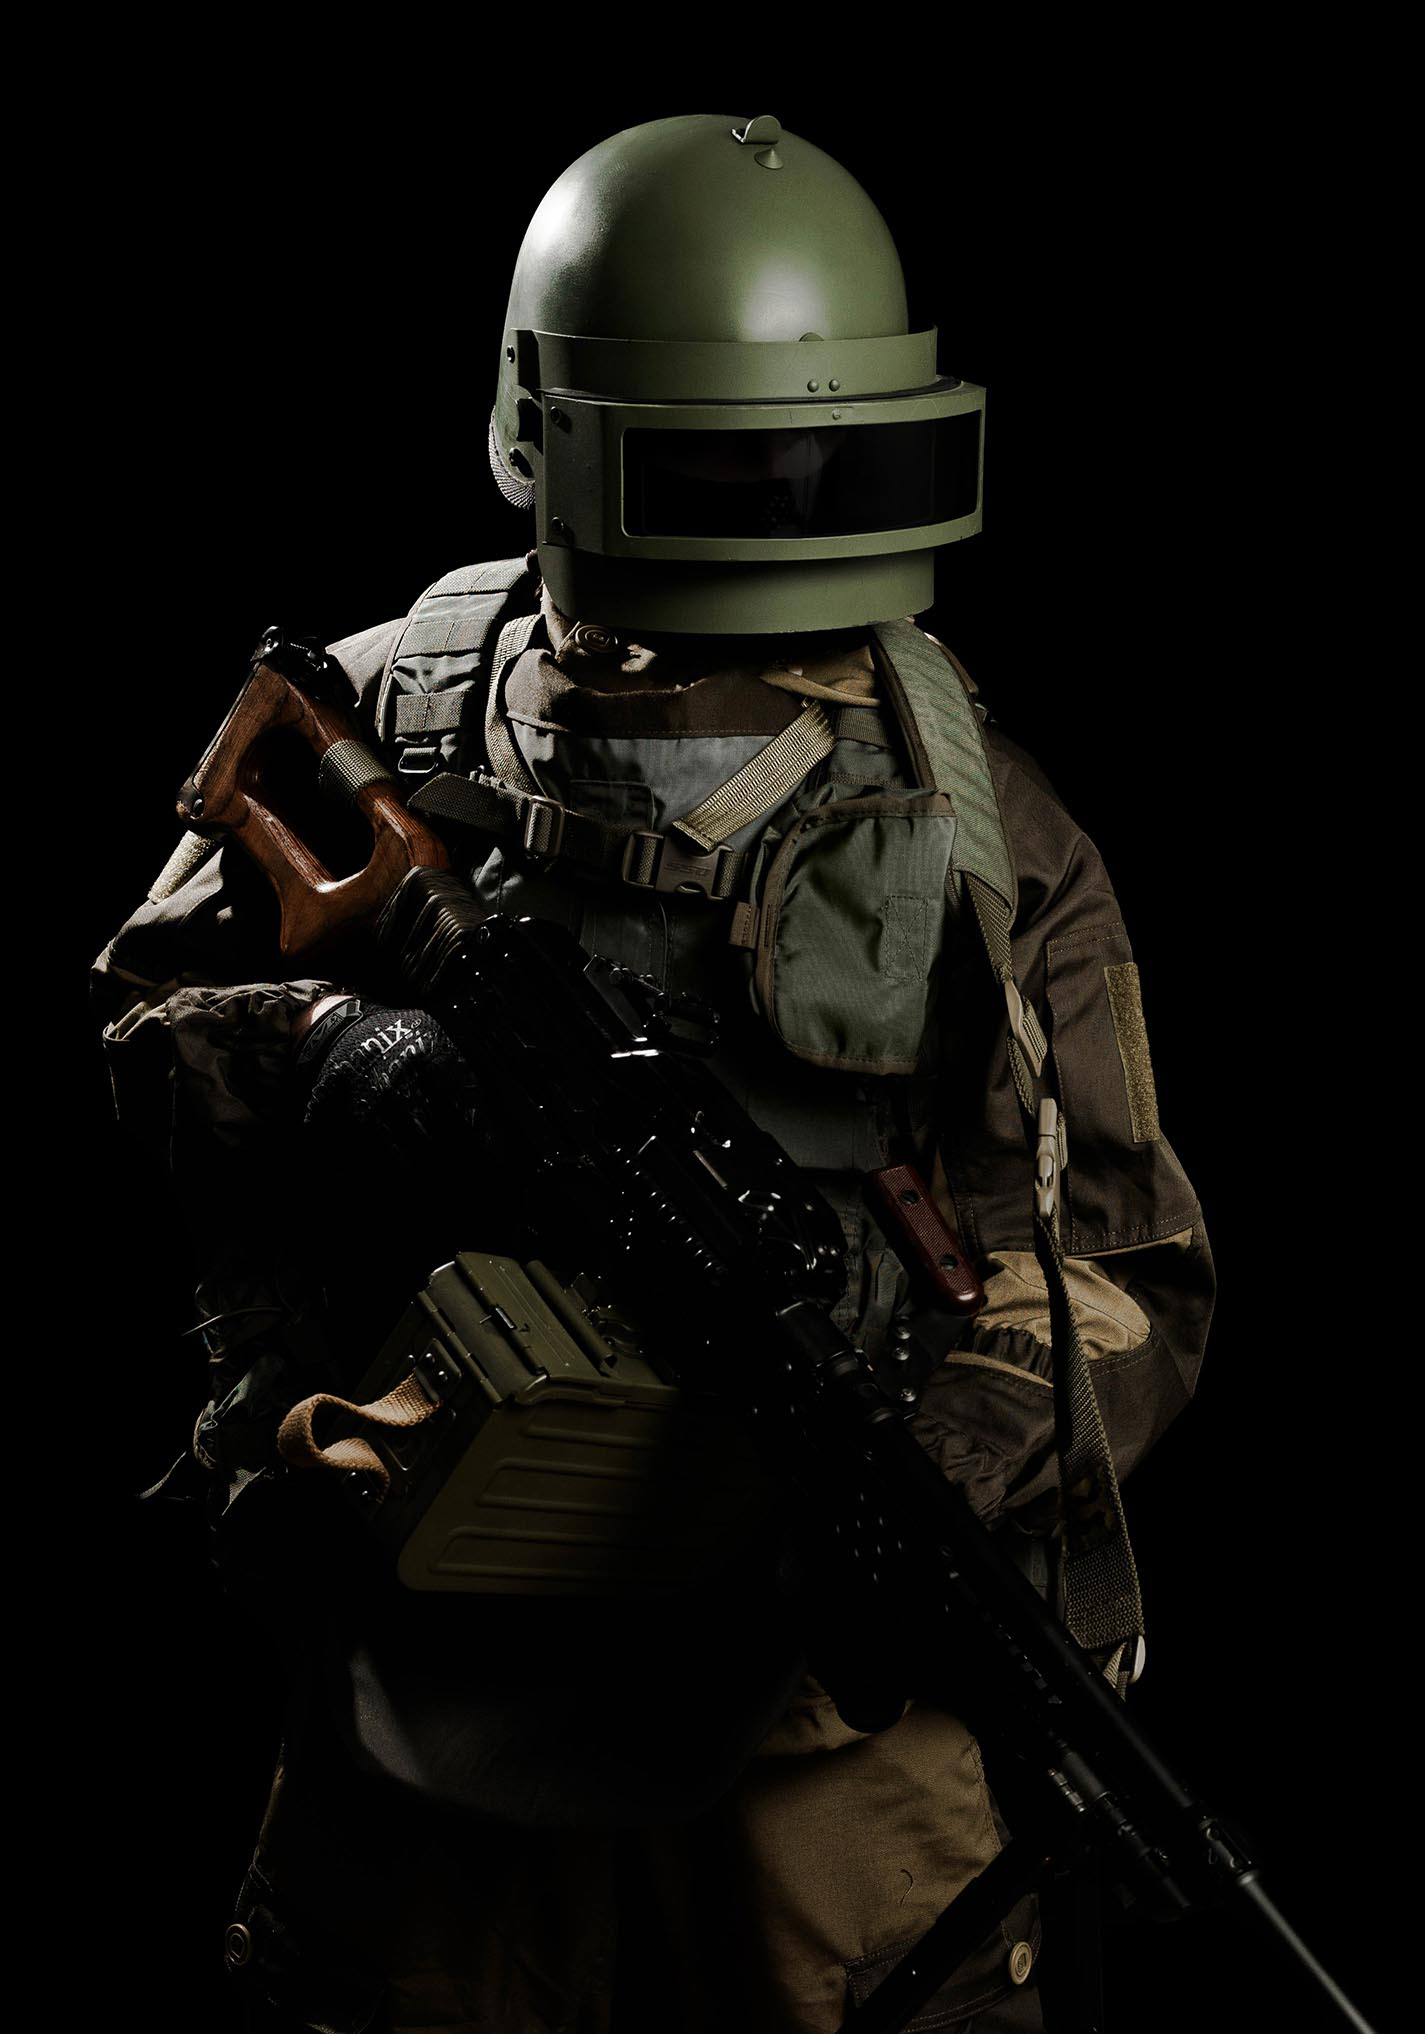
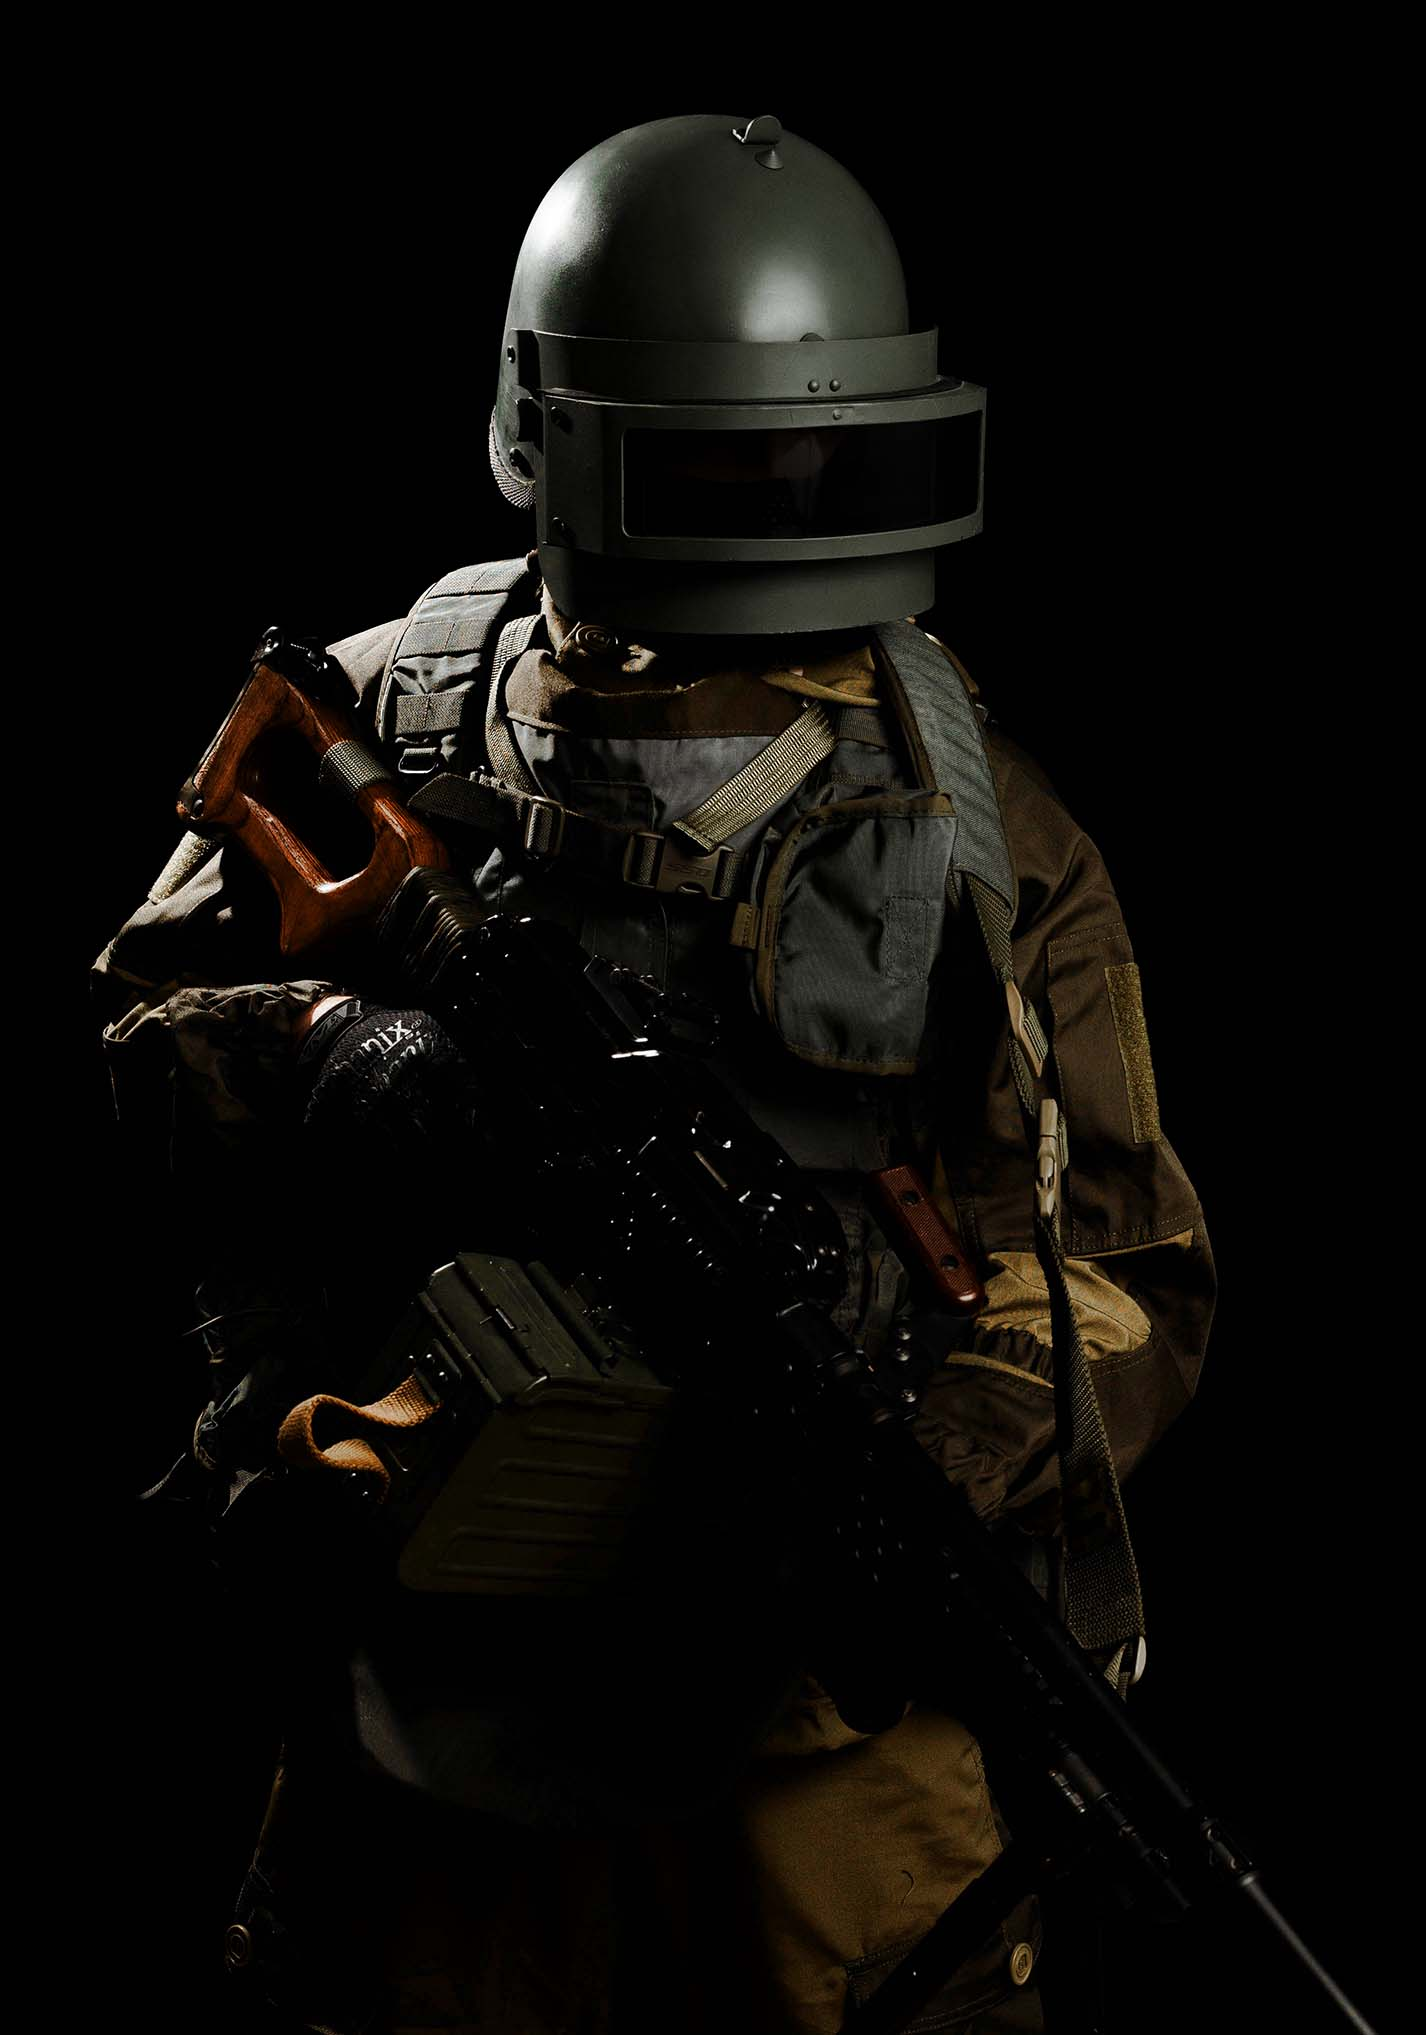
Major graphics changes

diff --git a/stylesheet.css b/stylesheet.css
@@ -180,8 +180,8 @@ figure {
 .page-nav-toggle {
     position: absolute;
     z-index: 2;
-    top: var(--space-m);
-    right: var(--space-m);
+    top: var(--space-s);
+    right: var(--space-s);
     background: transparent;
     border: none;
     appearance: none;
@@ -254,7 +254,7 @@ figure {
     gap: var(--space-xs);
     align-items: center;
     margin-right: auto;
-    font-size: var(--step-2);
+    font-size: var(--step-1);
     text-transform: uppercase;
     font-weight: bold;
 }
@@ -264,7 +264,7 @@ figure {
 }
 
 .page-nav_logo {
-    width: var(--space-xl);
+    width: var(--space-l);
 }
 
 @media screen AND (min-width: 40rem) {
@@ -458,6 +458,13 @@ figure {
 
 .keyvisual-header_figure {
     background-color: var(--base-300);
+    border-radius: var(--space-3xs);
+    
+    & img {
+        height: 100%;
+
+        border-radius: var(--space-3xs);
+    }
 }
 
 .landingpage-keyvisual {
@@ -519,7 +526,7 @@ figure {
 }
 
 .landingpage-keyvisual_logo {
-    padding: var(--space-xl);
+    padding: var(--space-m);
     justify-content: center;
     & logo {
         object-fit: contain;
@@ -554,7 +561,7 @@ figure {
     gap: var(--space-2xs);
     padding: var(--space-s);
     background-color: var(--base-200);
-    border-radius: var(--space-xs);
+    border-radius: var(--space-3xs);
     background-color: var(--base-100);
 }
 

diff --git a/index.html b/index.html
@@ -66,7 +66,7 @@
                 <div class="landingpage-keyvisual_photo"></div>
             </figure>
             <figure class="landingpage-keyvisual_logo">
-                <img src="assets/images/korund-logo-splash.svg" %="">
+                <img src="assets/images/korund_logo_typo_comp.png" %="">
             </figure>
         </div>
     </div>
@@ -90,6 +90,7 @@
             </div>
         </div>
         <figure class="keyvisual-header_figure">
+            <img src="assets/images/korund_team_splash_close.jpg">
         </figure>
     </header>
 

diff --git a/team/index.html b/team/index.html
@@ -69,6 +69,7 @@
       
     </div>
     <figure class="keyvisual-header_figure">
+      <img src="../assets/images/korund_team_splash.jpg">
     </figure>
   </header>
 
